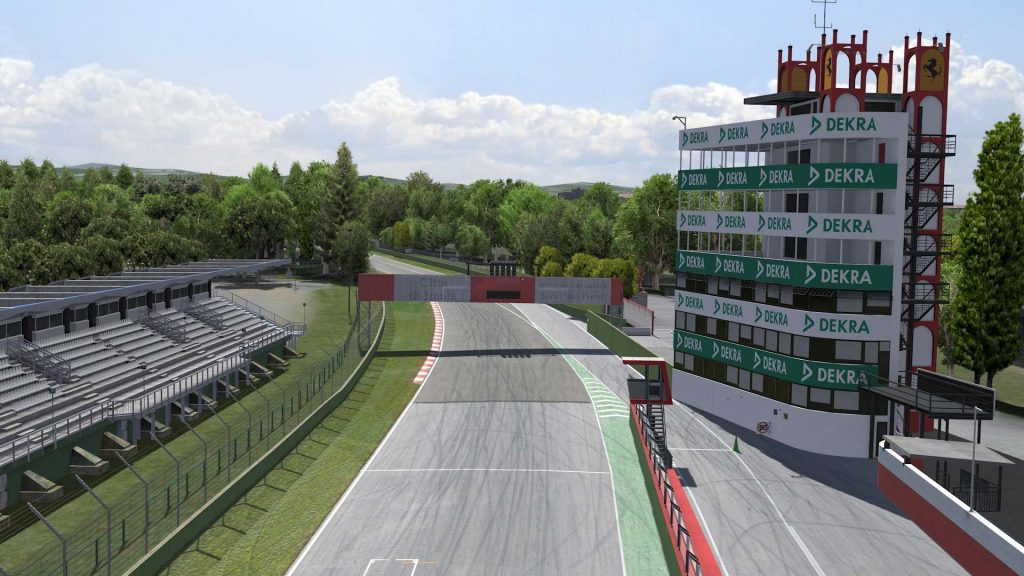
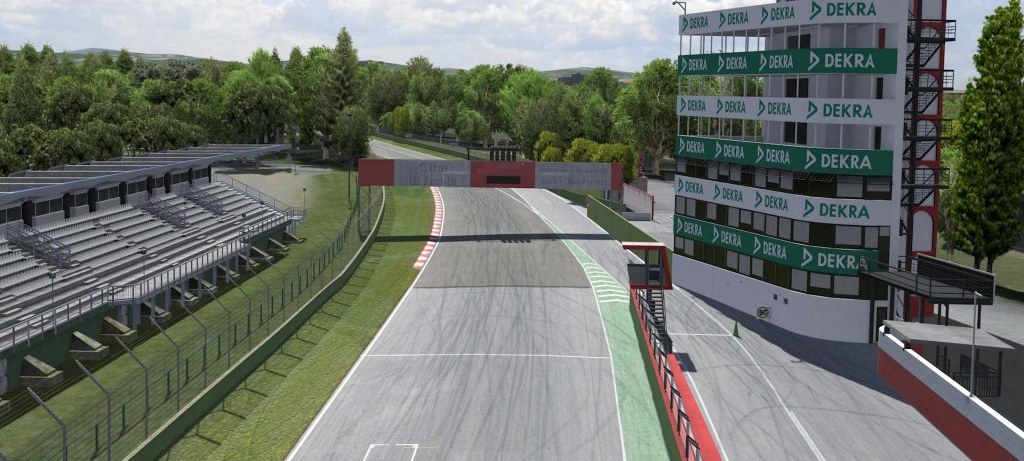
Crop sky from 5 more track jpgs
Scanned the remaining 80 jpgs for sky-dominated tops (high
luminance, low chroma, low row variance, brighter than the
bottom 2/3) and audited the candidates by eye. Cropped:

  108, 109 (Watkins Glen, top 30%) - same scene as 434/435
  250, 255 (overcast track,  top 35%)
  266       (top 20%, gentle - keeps the trees)

Skipped false positives where the bright top band wasn't sky:
  121, 371 (bleachers/grandstand)
  445, 168 (iconic Mt Fuji and the Suzuka ferris wheel)
  475, 478 (desert hills)
  239, 501 (already framed correctly)

https://claude.ai/code/session_014nXpNFkj7MLoxiicuX9JQx

diff --git a/scripts/fix-track-logos.py b/scripts/fix-track-logos.py
@@ -64,7 +64,12 @@ SVG_KEY_WHITE = ['341']
 # so the home/results banners only show clouds. (top, left, right,
 # bottom) as fractions of the source. None means "leave that edge".
 JPG_CROP = {
+    '108': (0.30, 0.0, 1.0, 1.0),
+    '109': (0.30, 0.0, 1.0, 1.0),
     '149': (0.40, 0.0, 1.0, 1.0),
+    '250': (0.35, 0.0, 1.0, 1.0),
+    '255': (0.35, 0.0, 1.0, 1.0),
+    '266': (0.20, 0.0, 1.0, 1.0),
     '434': (0.30, 0.0, 1.0, 1.0),
     '435': (0.30, 0.0, 1.0, 1.0),
     '485': (0.40, 0.0, 1.0, 1.0),
